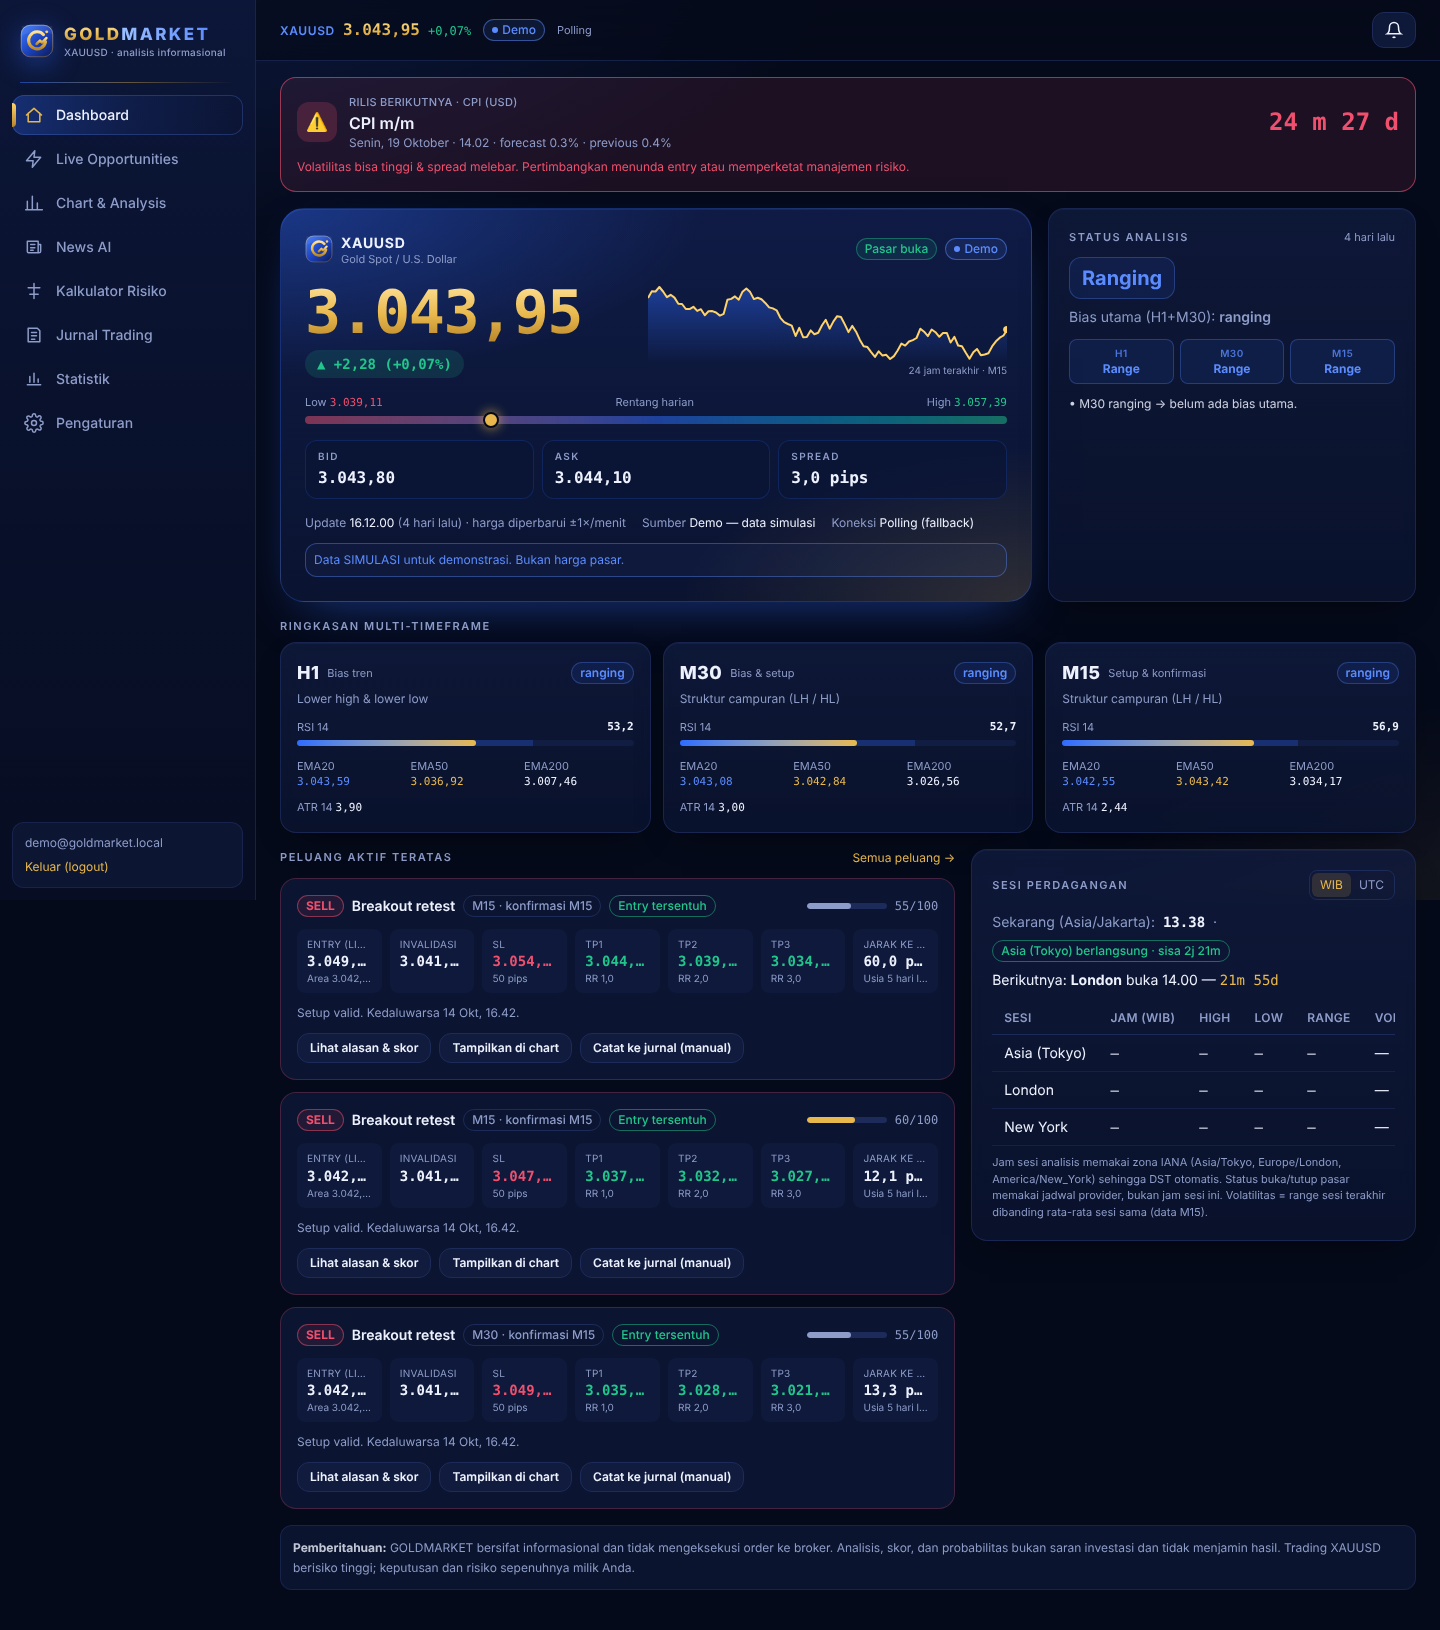
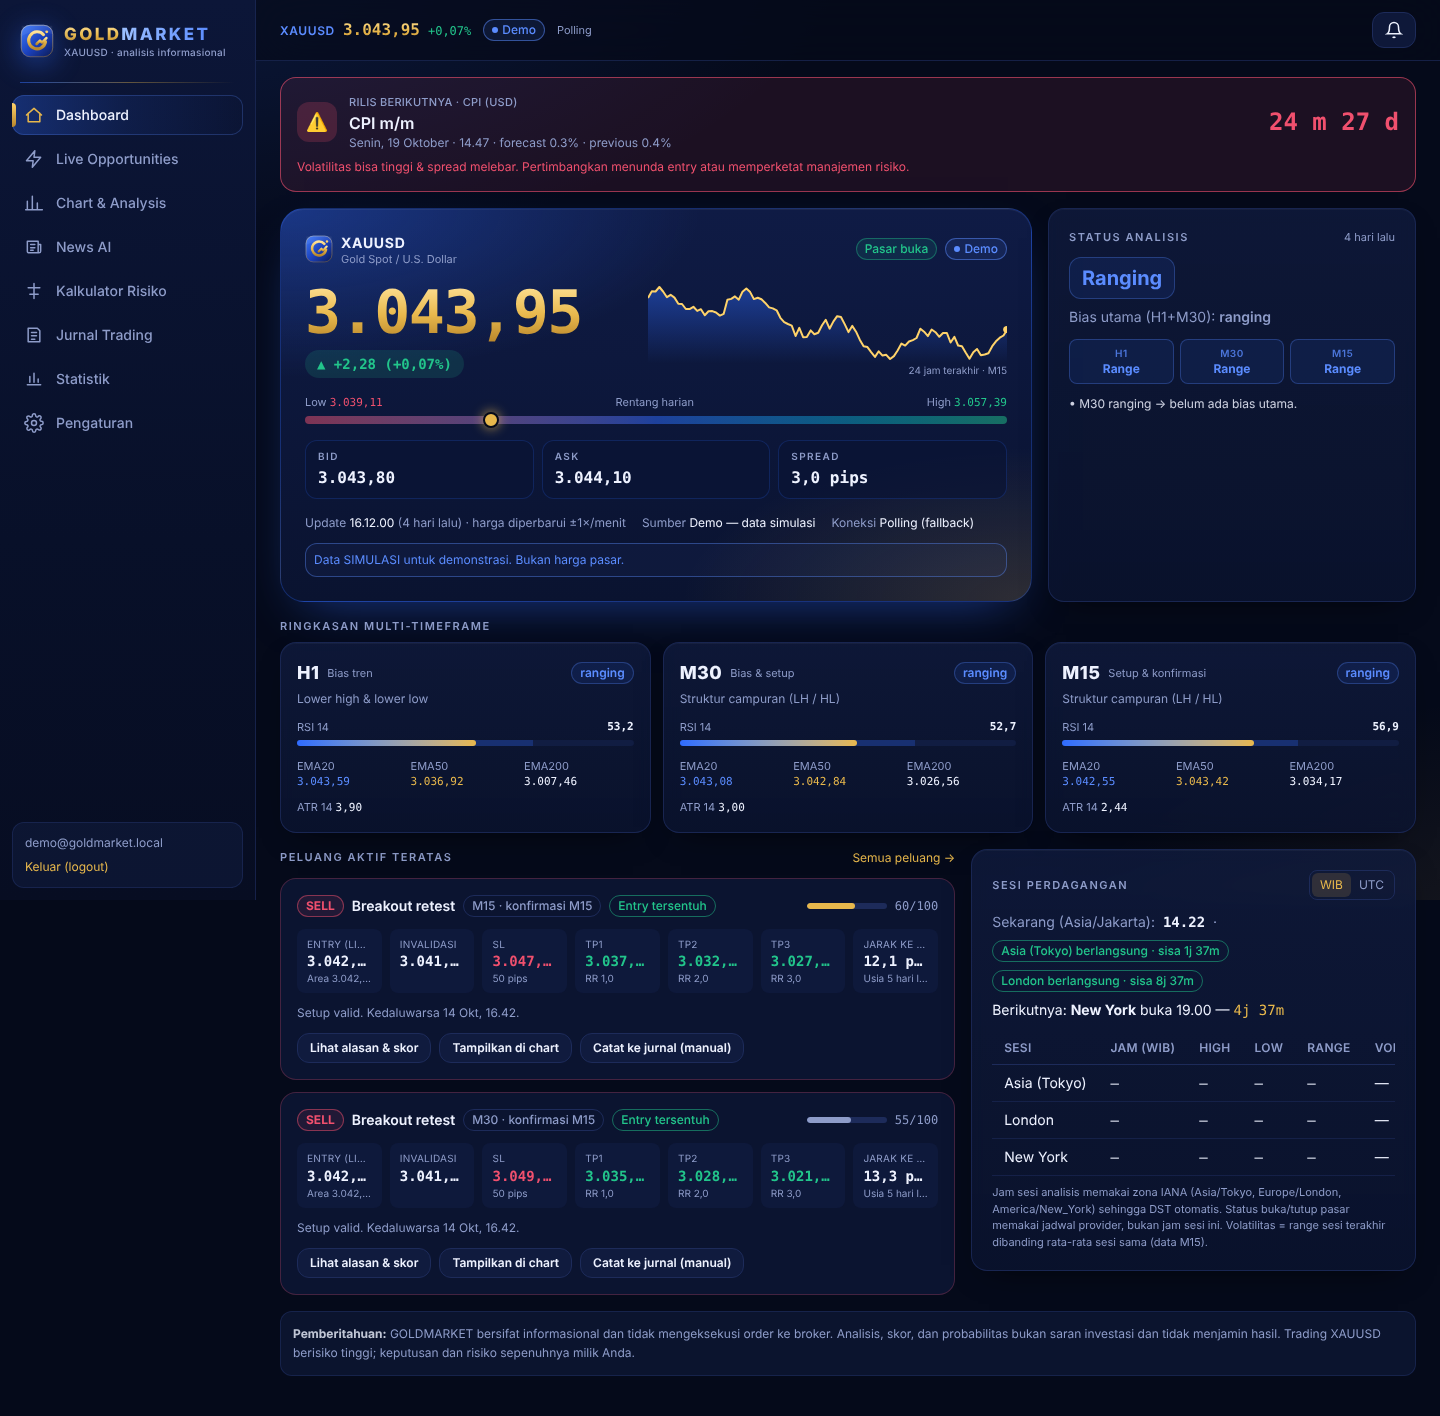
Move signal SL to break-even after TP1 and close at entry as a win
After TP1 the tracked stop moves to the entry; price returning there
closes the signal as WIN at the highest TP reached, TP3 remains the
upside. A TP alert tells the user to move SL to BE, and signals past
TP1 leave the active opportunities list. History rows show the secured
TP pips instead of a floating loss.

Claude-Session: https://claude.ai/code/session_013QtfmBmTs5QPLgXJSgfiZY

diff --git a/src/core/outcome.ts b/src/core/outcome.ts
@@ -7,8 +7,9 @@ import { priceToPips, type InstrumentSpec } from "./instrument.ts";
  * Aturan (didokumentasikan di docs/STRATEGY.md §10):
  *  - Pelacakan dimulai saat entry tersentuh menurut feed. TP di candle tempat
  *    entry tersentuh tidak dihitung (bisa terjadi sebelum entry); SL tetap.
- *  - WIN  : minimal TP1 tersentuh sebelum SL. Hasil = pips TP tertinggi yang
- *           tersentuh sebelum SL / TP3 / batas waktu.
+ *  - Setelah TP1 tersentuh, SL dipindah ke entry (BE).
+ *  - WIN  : minimal TP1 tersentuh. Sinyal ditutup saat harga kembali ke entry (BE),
+ *           TP3 tersentuh, atau batas waktu. Hasil = pips TP tertinggi yang tersentuh.
  *  - LOSS : SL tersentuh sebelum TP1. Hasil = −pips SL.
  *  - SL dan TP tersentuh dalam candle yang sama tanpa data lebih rinci →
  *    dihitung konservatif sebagai SL untuk TP tersebut (ambigu ditandai).
@@ -57,22 +58,29 @@ export function evaluateOutcome(i: OutcomeInput): OutcomeResult {
   const points: { hi: number; lo: number; t: number; touchBar: boolean }[] = bars.map((c) => ({ hi: c.high, lo: c.low, t: c.time, touchBar: c.time <= i.entryTouchedAtSec }));
   if (i.price != null) points.push({ hi: i.price, lo: i.price, t: i.nowSec, touchBar: false });
 
+  const backAtEntry = (p: { hi: number; lo: number }) => (s > 0 ? p.lo <= i.entry : p.hi >= i.entry);
   for (const p of points) {
-    const slHit = s > 0 ? p.lo <= i.sl : p.hi >= i.sl;
+    // setelah TP1, SL berada di entry (BE)
+    const stopHit = tpHit > 0 ? backAtEntry(p) : s > 0 ? p.lo <= i.sl : p.hi >= i.sl;
     let reached: 0 | 1 | 2 | 3 = tpHit;
     for (let k = 0; !p.touchBar && k < 3; k++) {
       const tp = i.tps[k];
       if (s > 0 ? p.hi >= tp : p.lo <= tp) reached = Math.max(reached, k + 1) as 0 | 1 | 2 | 3;
     }
-    if (slHit && reached > tpHit) {
+    if (stopHit && reached > tpHit) {
       // urutan dalam candle tidak diketahui → konservatif: TP baru di candle ini tidak dihitung
       ambiguous = true;
       reached = tpHit;
     }
+    const firstTp = tpHit === 0 && reached > 0;
     tpHit = reached;
-    if (slHit) {
+    if (stopHit) {
       if (tpHit === 0) return { outcome: "loss", tpHit: 0, pips: slPips, ambiguous, closedAtSec: p.t, note: ambiguous ? "SL dan TP dalam candle yang sama — dihitung SL (konservatif)." : "SL tersentuh sebelum TP1." };
-      return { outcome: "win", tpHit, pips: pipsOf(i.tps[tpHit - 1]), ambiguous, closedAtSec: p.t, note: `TP${tpHit} tersentuh, lalu SL.` };
+      return { outcome: "win", tpHit, pips: pipsOf(i.tps[tpHit - 1]), ambiguous, closedAtSec: p.t, note: `TP${tpHit} tersentuh, lalu harga kembali ke entry (SL di BE).` };
+    }
+    if (firstTp && backAtEntry(p)) {
+      // TP pertama dan entry dalam candle yang sama → urutan tidak diketahui; konservatif hanya TP1 lalu BE
+      return { outcome: "win", tpHit: 1, pips: pipsOf(i.tps[0]), ambiguous: true, closedAtSec: p.t, note: "TP dan entry dalam candle yang sama — dihitung TP1 lalu BE (konservatif)." };
     }
     if (tpHit === 3) return { outcome: "win", tpHit, pips: pipsOf(i.tps[2]), ambiguous, closedAtSec: p.t, note: "TP3 tersentuh." };
   }
@@ -82,7 +90,7 @@ export function evaluateOutcome(i: OutcomeInput): OutcomeResult {
     const last = i.price ?? bars[bars.length - 1]?.close ?? i.entry;
     return { outcome: "timeout", tpHit: 0, pips: pipsOf(last), ambiguous, closedAtSec: i.nowSec, note: "Batas waktu tanpa TP1/SL; hasil = harga terakhir." };
   }
-  return { outcome: "open", tpHit, pips: null, ambiguous, closedAtSec: null, note: tpHit ? `TP${tpHit} tersentuh, pelacakan berlanjut.` : "Menunggu TP/SL." };
+  return { outcome: "open", tpHit, pips: null, ambiguous, closedAtSec: null, note: tpHit ? `TP${tpHit} tersentuh, SL di BE (entry). Pelacakan berlanjut.` : "Menunggu TP/SL." };
 }
 
 /** Grade tampilan dari skor kualitas (bukan probabilitas). */

diff --git a/supabase/functions/_shared/core/outcome.ts b/supabase/functions/_shared/core/outcome.ts
@@ -7,8 +7,9 @@ import { priceToPips, type InstrumentSpec } from "./instrument.ts";
  * Aturan (didokumentasikan di docs/STRATEGY.md §10):
  *  - Pelacakan dimulai saat entry tersentuh menurut feed. TP di candle tempat
  *    entry tersentuh tidak dihitung (bisa terjadi sebelum entry); SL tetap.
- *  - WIN  : minimal TP1 tersentuh sebelum SL. Hasil = pips TP tertinggi yang
- *           tersentuh sebelum SL / TP3 / batas waktu.
+ *  - Setelah TP1 tersentuh, SL dipindah ke entry (BE).
+ *  - WIN  : minimal TP1 tersentuh. Sinyal ditutup saat harga kembali ke entry (BE),
+ *           TP3 tersentuh, atau batas waktu. Hasil = pips TP tertinggi yang tersentuh.
  *  - LOSS : SL tersentuh sebelum TP1. Hasil = −pips SL.
  *  - SL dan TP tersentuh dalam candle yang sama tanpa data lebih rinci →
  *    dihitung konservatif sebagai SL untuk TP tersebut (ambigu ditandai).
@@ -57,22 +58,29 @@ export function evaluateOutcome(i: OutcomeInput): OutcomeResult {
   const points: { hi: number; lo: number; t: number; touchBar: boolean }[] = bars.map((c) => ({ hi: c.high, lo: c.low, t: c.time, touchBar: c.time <= i.entryTouchedAtSec }));
   if (i.price != null) points.push({ hi: i.price, lo: i.price, t: i.nowSec, touchBar: false });
 
+  const backAtEntry = (p: { hi: number; lo: number }) => (s > 0 ? p.lo <= i.entry : p.hi >= i.entry);
   for (const p of points) {
-    const slHit = s > 0 ? p.lo <= i.sl : p.hi >= i.sl;
+    // setelah TP1, SL berada di entry (BE)
+    const stopHit = tpHit > 0 ? backAtEntry(p) : s > 0 ? p.lo <= i.sl : p.hi >= i.sl;
     let reached: 0 | 1 | 2 | 3 = tpHit;
     for (let k = 0; !p.touchBar && k < 3; k++) {
       const tp = i.tps[k];
       if (s > 0 ? p.hi >= tp : p.lo <= tp) reached = Math.max(reached, k + 1) as 0 | 1 | 2 | 3;
     }
-    if (slHit && reached > tpHit) {
+    if (stopHit && reached > tpHit) {
       // urutan dalam candle tidak diketahui → konservatif: TP baru di candle ini tidak dihitung
       ambiguous = true;
       reached = tpHit;
     }
+    const firstTp = tpHit === 0 && reached > 0;
     tpHit = reached;
-    if (slHit) {
+    if (stopHit) {
       if (tpHit === 0) return { outcome: "loss", tpHit: 0, pips: slPips, ambiguous, closedAtSec: p.t, note: ambiguous ? "SL dan TP dalam candle yang sama — dihitung SL (konservatif)." : "SL tersentuh sebelum TP1." };
-      return { outcome: "win", tpHit, pips: pipsOf(i.tps[tpHit - 1]), ambiguous, closedAtSec: p.t, note: `TP${tpHit} tersentuh, lalu SL.` };
+      return { outcome: "win", tpHit, pips: pipsOf(i.tps[tpHit - 1]), ambiguous, closedAtSec: p.t, note: `TP${tpHit} tersentuh, lalu harga kembali ke entry (SL di BE).` };
+    }
+    if (firstTp && backAtEntry(p)) {
+      // TP pertama dan entry dalam candle yang sama → urutan tidak diketahui; konservatif hanya TP1 lalu BE
+      return { outcome: "win", tpHit: 1, pips: pipsOf(i.tps[0]), ambiguous: true, closedAtSec: p.t, note: "TP dan entry dalam candle yang sama — dihitung TP1 lalu BE (konservatif)." };
     }
     if (tpHit === 3) return { outcome: "win", tpHit, pips: pipsOf(i.tps[2]), ambiguous, closedAtSec: p.t, note: "TP3 tersentuh." };
   }
@@ -82,7 +90,7 @@ export function evaluateOutcome(i: OutcomeInput): OutcomeResult {
     const last = i.price ?? bars[bars.length - 1]?.close ?? i.entry;
     return { outcome: "timeout", tpHit: 0, pips: pipsOf(last), ambiguous, closedAtSec: i.nowSec, note: "Batas waktu tanpa TP1/SL; hasil = harga terakhir." };
   }
-  return { outcome: "open", tpHit, pips: null, ambiguous, closedAtSec: null, note: tpHit ? `TP${tpHit} tersentuh, pelacakan berlanjut.` : "Menunggu TP/SL." };
+  return { outcome: "open", tpHit, pips: null, ambiguous, closedAtSec: null, note: tpHit ? `TP${tpHit} tersentuh, SL di BE (entry). Pelacakan berlanjut.` : "Menunggu TP/SL." };
 }
 
 /** Grade tampilan dari skor kualitas (bukan probabilitas). */

diff --git a/src/components/SignalHistory.tsx b/src/components/SignalHistory.tsx
@@ -150,6 +150,11 @@ export function SignalDetails({ s, tz, price, extra }: { s: SetupRow; tz: string
               TP{tpHit} sudah tersentuh <span className="num font-bold text-buy">+{fmt(locked, 1)} pips</span>
             </span>
           )}
+          {locked != null && (
+            <span className="text-muted">
+              SL dipindah ke entry (BE) <span className="num font-semibold text-ink">{fmt(s.entry_price)}</span> — bila tersentuh, ditutup WIN +{fmt(locked, 1)} pips
+            </span>
+          )}
         </div>
       )}
       <div className="text-xs text-muted">
@@ -181,14 +186,14 @@ function ProgressLadder({ s, price }: { s: SetupRow; price: number | null }) {
   const tpHit = s.outcome_tp ?? 0;
   const d = s.direction === "BUY" ? 1 : -1;
   const steps = [
-    { label: "SL", value: s.sl, done: false, tone: "text-sell" },
+    tpHit >= 1 ? { label: "SL → BE", value: s.entry_price, done: false, tone: "text-gold" } : { label: "SL", value: s.sl, done: false, tone: "text-sell" },
     { label: "Entry", value: s.entry_price, done: true, tone: "text-ink" },
     { label: "TP1", value: s.tp1, done: tpHit >= 1, tone: "text-buy" },
     { label: "TP2", value: s.tp2, done: tpHit >= 2, tone: "text-buy" },
     { label: "TP3", value: s.tp3, done: tpHit >= 3, tone: "text-buy" },
   ];
-  // harga berada setelah level terakhir yang sudah dilewati searah posisi
-  const here = price == null ? -1 : steps.reduce((idx, st, i) => (d * (price - st.value) >= 0 ? i : idx), 0);
+  // harga berada setelah level terakhir (Entry..TP3) yang sudah dilewati searah posisi; di sisi rugi → kotak SL
+  const here = price == null ? -1 : steps.reduce((idx, st, i) => (i > 0 && d * (price - st.value) >= 0 ? i : idx), 0);
   return (
     <div className="grid grid-cols-5 gap-1 text-center">
       {steps.map((st, i) => (
@@ -198,7 +203,7 @@ function ProgressLadder({ s, price }: { s: SetupRow; price: number | null }) {
             {st.done && i > 1 ? " ✓" : ""}
           </div>
           <div className="num text-[11px]">{fmt(st.value)}</div>
-          {i === here && <div className="text-[9px] font-semibold text-gold">harga di sini</div>}
+          {i === here && <div className="text-[9px] font-semibold text-gold">{i === 0 ? "harga menuju sini" : "harga di sini"}</div>}
         </div>
       ))}
     </div>
@@ -211,7 +216,10 @@ export function SignalHistoryItem({ s, tz, time, grade, price, extra }: { s: Set
   const running = isRunningSignal(s);
   const tpHit = s.outcome_tp ?? 0;
   const result: ResultKind = running ? (tpHit >= 2 ? "tp2" : tpHit === 1 ? "tp1" : "running") : ((s.outcome ?? "open") as ResultKind);
-  const float = running && price != null ? floatingPips(s.direction, s.entry_price, price, s.pip_size || 0.1) : null;
+  const pip = s.pip_size || 0.1;
+  const float = running && price != null ? floatingPips(s.direction, s.entry_price, price, pip) : null;
+  // setelah TP1 SL di BE: yang ditampilkan pips TP yang sudah aman, floating ada di detail
+  const locked = running && tpHit > 0 ? Math.abs([s.tp1, s.tp2, s.tp3][tpHit - 1] - s.entry_price) / pip : null;
   return (
     <>
       <HistoryRow
@@ -220,8 +228,8 @@ export function SignalHistoryItem({ s, tz, time, grade, price, extra }: { s: Set
         grade={grade}
         time={time}
         result={result}
-        pips={running ? float : s.outcome_pips}
-        pipsNote={running ? "floating" : undefined}
+        pips={locked ?? (running ? float : s.outcome_pips)}
+        pipsNote={locked != null ? "aman · SL di BE" : running ? "floating" : undefined}
         sub={open ? "Ketuk untuk menutup detail" : running && s.outcome_note ? `${s.outcome_note} Ketuk untuk detail.` : "Ketuk untuk lihat entry, SL & TP"}
         onClick={() => setOpen((v) => !v)}
         active={open}

diff --git a/tests/outcome.test.ts b/tests/outcome.test.ts
@@ -10,19 +10,19 @@ describe("hasil sinyal menurut feed", () => {
     const r = evaluateOutcome({ ...base, candles: [bar(900, 3001, 2999), bar(1200, 3002, 2994)] });
     expect(r).toMatchObject({ outcome: "loss", pips: -50, tpHit: 0 });
   });
-  it("TP2 lalu SL → WIN +100 pips (TP tertinggi sebelum SL)", () => {
-    const r = evaluateOutcome({ ...base, candles: [bar(1200, 3006, 3000), bar(1500, 3011, 3004), bar(1800, 3008, 2994)] });
+  it("TP2 lalu kembali ke entry (BE) → WIN +100 pips", () => {
+    const r = evaluateOutcome({ ...base, candles: [bar(1200, 3006, 3001), bar(1500, 3011, 3004), bar(1800, 3008, 2994)] });
     expect(r).toMatchObject({ outcome: "win", pips: 100, tpHit: 2 });
   });
   it("TP3 → WIN +150 pips", () => {
-    expect(evaluateOutcome({ ...base, candles: [bar(1200, 3016, 2999)] })).toMatchObject({ outcome: "win", pips: 150, tpHit: 3 });
+    expect(evaluateOutcome({ ...base, candles: [bar(1200, 3016, 3001)] })).toMatchObject({ outcome: "win", pips: 150, tpHit: 3 });
   });
   it("SL & TP1 di candle yang sama → konservatif LOSS dan ditandai ambigu", () => {
     const r = evaluateOutcome({ ...base, candles: [bar(1200, 3006, 2994)] });
     expect(r).toMatchObject({ outcome: "loss", ambiguous: true });
   });
   it("SELL simetris", () => {
-    const r = evaluateOutcome({ ...base, direction: "SELL", sl: 3005, tps: [2995, 2990, 2985], candles: [bar(1200, 3001, 2994)] });
+    const r = evaluateOutcome({ ...base, direction: "SELL", sl: 3005, tps: [2995, 2990, 2985], candles: [bar(1200, 2999.5, 2994)] });
     expect(r).toMatchObject({ outcome: "open", tpHit: 1 });
   });
   it("masih berjalan / batas waktu", () => {
@@ -45,6 +45,20 @@ describe("hasil sinyal menurut feed", () => {
   });
   it("SL di candle sentuhan tetap LOSS", () => {
     expect(evaluateOutcome({ ...base, candles: [bar(900, 3006, 2994)] })).toMatchObject({ outcome: "loss", pips: -50 });
+  });
+  it("setelah TP1, SL di BE: harga kembali ke entry → WIN +TP1, bukan menunggu SL awal", () => {
+    const r = evaluateOutcome({ ...base, candles: [bar(1200, 3006, 3001), bar(1500, 3004, 2999.8)] });
+    expect(r).toMatchObject({ outcome: "win", tpHit: 1, pips: 50 });
+    expect(r.note).toContain("BE");
+  });
+  it("TP1 dan entry dalam candle yang sama → ditutup di BE (konservatif)", () => {
+    expect(evaluateOutcome({ ...base, candles: [bar(1200, 3006, 2999)] })).toMatchObject({ outcome: "win", tpHit: 1, pips: 50, ambiguous: true });
+  });
+  it("TP2 dan entry dalam candle yang sama → hanya TP1 dihitung", () => {
+    expect(evaluateOutcome({ ...base, candles: [bar(1200, 3011, 2999)] })).toMatchObject({ outcome: "win", tpHit: 1, pips: 50, ambiguous: true });
+  });
+  it("TP3 sebelum BE → WIN +150 (bonus)", () => {
+    expect(evaluateOutcome({ ...base, candles: [bar(1200, 3006, 3001), bar(1500, 3016, 3002)] })).toMatchObject({ outcome: "win", tpHit: 3, pips: 150 });
   });
   it("grade dari skor", () => {
     expect([gradeOf(85), gradeOf(72), gradeOf(61), gradeOf(40), gradeOf(null)]).toEqual(["A+", "A", "B", "C", null]);

diff --git a/supabase/functions/engine/index.ts b/supabase/functions/engine/index.ts
@@ -561,6 +561,19 @@ async function tick(db: Db, cfg: EngineConfig, pid: string) {
         score: t.score,
         timeframe: t.timeframe,
       });
+    } else if (r.tpHit > (t.outcome_tp ?? 0)) {
+      // TP baru tersentuh, sinyal masih berjalan → peringatan geser SL ke BE
+      const tpPips = priceToPips(Math.abs([t.tp1, t.tp2, t.tp3][r.tpHit - 1] - t.entry_price), cfg.spec);
+      notifRows.push({
+        kind: "signal_result",
+        dedupe_key: `tp${r.tpHit}:${t.id}`,
+        title: `✅ TP${r.tpHit} TERSENTUH — ${t.direction} XAUUSD ${t.timeframe} +${tpPips.toFixed(1)} pips`,
+        body: `${r.tpHit === 1 ? "Geser SL ke entry (BE)" : "SL tetap di entry (BE)"} ${t.entry_price.toFixed(2)}. Bila harga kembali ke entry, sinyal ditutup WIN +${tpPips.toFixed(1)} pips. Hasil level sinyal menurut feed, bukan transaksi Anda.`,
+        severity: "success",
+        setup_id: t.id,
+        score: t.score,
+        timeframe: t.timeframe,
+      });
     }
   }
 

diff --git a/src/lib/market.ts b/src/lib/market.ts
@@ -218,10 +218,10 @@ export function useSetups(days = 3) {
   }, 30000);
 }
 
-/** Sinyal masih aktif: belum tersentuh, atau tersentuh tetapi hasil TP/SL belum final. */
-export function isActiveSignal(s: Pick<SetupRow, "status" | "outcome">): boolean {
+/** Sinyal masih aktif: belum tersentuh, atau tersentuh tetapi belum ada TP. Setelah TP1 (SL di BE) setup tidak berlaku untuk entry baru. */
+export function isActiveSignal(s: Pick<SetupRow, "status" | "outcome" | "outcome_tp">): boolean {
   if (s.status === "approaching" || s.status === "awaiting_confirmation") return true;
-  return s.status === "entry_touched" && (s.outcome == null || s.outcome === "open");
+  return s.status === "entry_touched" && (s.outcome == null || s.outcome === "open") && !(s.outcome_tp ?? 0);
 }
 
 /** Sinyal berjalan: entry sudah tersentuh, hasil TP/SL belum final — selalu ditampilkan (sudah dinotifikasi). */

diff --git a/src/app/opportunities/page.tsx b/src/app/opportunities/page.tsx
@@ -335,7 +335,7 @@ function LiveSignal() {
           ))
         )}
         <p className="px-5 py-3 text-[11px] text-muted">
-          WIN = TP tertinggi tersentuh sebelum SL; LOSS = SL sebelum TP1; SL &amp; TP dalam candle yang sama dihitung SL. Hasil level sinyal menurut feed ({snapshot?.source_label ?? "—"}), belum termasuk spread/komisi, dan bukan transaksi Anda. Tidak menjamin hasil mendatang.
+          Setelah TP1, SL dipindah ke entry (BE). WIN = TP tertinggi yang tersentuh, ditutup saat harga kembali ke entry / TP3 / 24 jam; LOSS = SL sebelum TP1; SL &amp; TP dalam candle yang sama dihitung SL. Hasil level sinyal menurut feed ({snapshot?.source_label ?? "—"}), belum termasuk spread/komisi, dan bukan transaksi Anda. Tidak menjamin hasil mendatang.
         </p>
       </HistoryPanel>
       <Disclaimer />

diff --git a/docs/STRATEGY.md b/docs/STRATEGY.md
@@ -120,7 +120,9 @@ Backtest walk-forward berjalan **bertahap** (lihat §13): riwayat ±12 bulan PAX
 ## 10. Riwayat sinyal (hasil menurut feed) — terpisah dari jurnal
 
 `evaluateOutcome` (`src/core/outcome.ts`) dijalankan engine tiap menit untuk setup layak yang entry-nya tersentuh:
-- **WIN**: minimal TP1 tersentuh sebelum SL. Hasil = pips TP tertinggi yang tersentuh sebelum SL / TP3 / batas waktu.
+- **Manajemen BE**: setelah TP1 tersentuh, SL dipindah ke entry (break-even) dan notifikasi "TP1 tersentuh — geser SL ke BE" dikirim (juga untuk TP2). Setup itu tidak lagi tampil sebagai peluang aktif (tidak berlaku untuk entry baru), hanya di Riwayat Sinyal.
+- **WIN**: minimal TP1 tersentuh. Sinyal ditutup saat harga kembali ke entry (BE), TP3 tersentuh (bonus), atau batas waktu. Hasil = pips TP tertinggi yang tersentuh.
+- TP pertama dan entry dalam candle M5 yang sama → urutan tidak diketahui; dihitung TP1 lalu BE (konservatif).
 - **LOSS**: SL tersentuh sebelum TP1 (−pips SL).
 - Waktu entry tersentuh = awal candle M5 pertama (setelah setup dibuat) yang menyentuh entry, atau waktu tick harga bila tick lebih dulu. Candle M15 Twelve Data baru masuk saat bar tutup, jadi tidak dipakai sebagai waktu.
 - TP di candle M5 tempat entry tersentuh tidak dihitung (harga itu bisa terjadi sebelum entry); SL di candle itu tetap dihitung.
